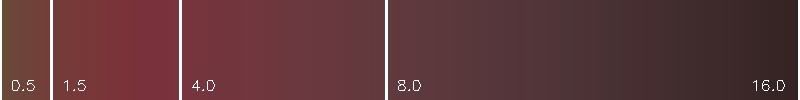
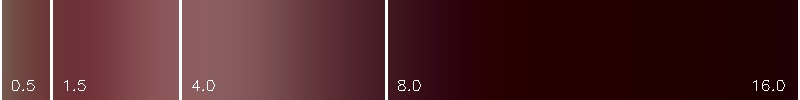
"Not falling w/o detection" --- IGNORE ---

diff --git a/auto_split_05.py b/auto_split_05.py
@@ -170,7 +170,7 @@ def estimate_concentration(test_img, model):
 # Загрузка (Loading)
 # -----------------------------
 # Замените на путь к вашему файлу
-image_path = 'кетоны/свет0.5-вид сверху/full.jpg'
+image_path = 'кетоны/свет1-вид сверху/full.jpg'
 img = cv2.imread(image_path)
 if img is None:
     # Создаем заглушку если файла нет в текущей директории для теста
@@ -302,25 +302,33 @@ scale_imgs = [warp_square(img, pts, N) for pts in scale_squares]
 test_imgs = [warp_square(img, pts, N) for pts in test_strips]
 
 # --- 5. Построение модели и расчет ---
+# --- 5. Построение модели и расчет ---
 results = []
+model = None
+
+# Проверяем, достаточно ли у нас изображений шкалы для построения сплайна
 if len(scale_imgs) == expected_count:
-    # Передаем в модель ТОЛЬКО изображения шкалы
-    model, labs = build_color_law(scale_imgs)
-    print(model, labs)
-    print("Модель успешно построена по 5 квадратам шкалы.")
-    
-    # Если нашли хотя бы одну тестовую полоску, считаем её концентрацию
-    if len(test_imgs) > 0:
-        for i, t_img in enumerate(test_imgs):
-            res_c, t_lab = estimate_concentration(t_img, model)
-            if is_colored(t_img):
-                results.append(res_c)
-            else:
-                test_imgs[i] = cv2.cvtColor(t_img, cv2.COLOR_BGR2GRAY) # для отладки, показать что это не цвет
-                results.append(0.0)  # или можно пометить как "неоп
-            print(f"Полоска {i+1}: Расчетная концентрация = {res_c:.2f}")
+    try:
+        model, labs = build_color_law(scale_imgs)
+        print("Модель успешно построена по 5 квадратам шкалы.")
+    except Exception as e:
+        print(f"Не удалось построить модель: {e}")
 else:
-    print(f"Ошибка: Найдено {len(scale_imgs)} квадратов шкалы вместо {expected_count}")
+    print(f"Предупреждение: Найдено {len(scale_imgs)} квадратов шкалы вместо {expected_count}. Расчет концентрации невозможен.")
+
+# Расчет для тестовых полосок
+if len(test_imgs) > 0:
+    for i, t_img in enumerate(test_imgs):
+        # Если модель есть — считаем концентрацию, если нет — ставим None или 0
+        if model is not None:
+            res_c, t_lab = estimate_concentration(t_img, model)
+            results.append(res_c)
+            print(f"Полоска {i+1}: Расчетная концентрация = {res_c:.2f}")
+        else:
+            results.append(None) 
+            print(f"Полоска {i+1}: Найдена, но модель не построена.")
+else:
+    print("Тестовые полоски не обнаружены.")
 
 # Сборка финальной картинки
 
@@ -354,12 +362,17 @@ for i, pts in enumerate(scale_squares):
 # Предположим, результаты хранятся в списке results = [6.81, 4.55, 0.50]
 #results = res_c # подставьте свои переменные из цикла расчета
 
+# Отрисовка тестов (защищенная от IndexError)
 for i, pts in enumerate(test_strips):
     pts_int = pts.astype(int)
     cv2.polylines(img_draw, [pts_int], True, COLOR_TEST, 3)
     
-    # Выводим концентрацию прямо над квадратом
-    conc_text = f"TEST {i+1}: {results[i]:.2f}"
+    # Проверяем, есть ли результат для этого индекса и не пустой ли он
+    if i < len(results) and results[i] is not None:
+        conc_text = f"TEST {i+1}: {results[i]:.2f}"
+    else:
+        conc_text = f"TEST {i+1}: No data"
+        
     cv2.putText(img_draw, conc_text, (pts_int[0][0], pts_int[0][1] - 10), 
                 cv2.FONT_HERSHEY_SIMPLEX, 0.6, COLOR_TEST, 2)
 
@@ -367,8 +380,16 @@ if square_imgs:
     bottom_row = cv2.hconcat(square_imgs)
     # Resize to match top row width
     bottom_row = cv2.resize(bottom_row, (img_draw.shape[1], N))
-    model_vis = cv2.resize(model_vis, (img_draw.shape[1], model_vis.shape[0]))  # Подгоняем модель по ширине
-    final_vis = cv2.vconcat([img_draw, bottom_row, model_vis])  # Добавляем модель внизу
+    try:
+        model_vis  # Пытаемся обратиться к переменной
+    except NameError:
+        model_vis = None  # Если ошибка, присваиваем значение по умолчанию
+
+    if model_vis is not None:
+        model_vis = cv2.resize(model_vis, (img_draw.shape[1], model_vis.shape[0]))  # Подгоняем модель по ширине
+        final_vis = cv2.vconcat([img_draw, bottom_row, model_vis])  # Добавляем модель внизу
+    else:
+        final_vis = cv2.vconcat([img_draw, bottom_row])
     cv2.imshow(f"Square {len(found_squares)}", final_vis)
     cv2.waitKey(0)
     cv2.destroyAllWindows()
